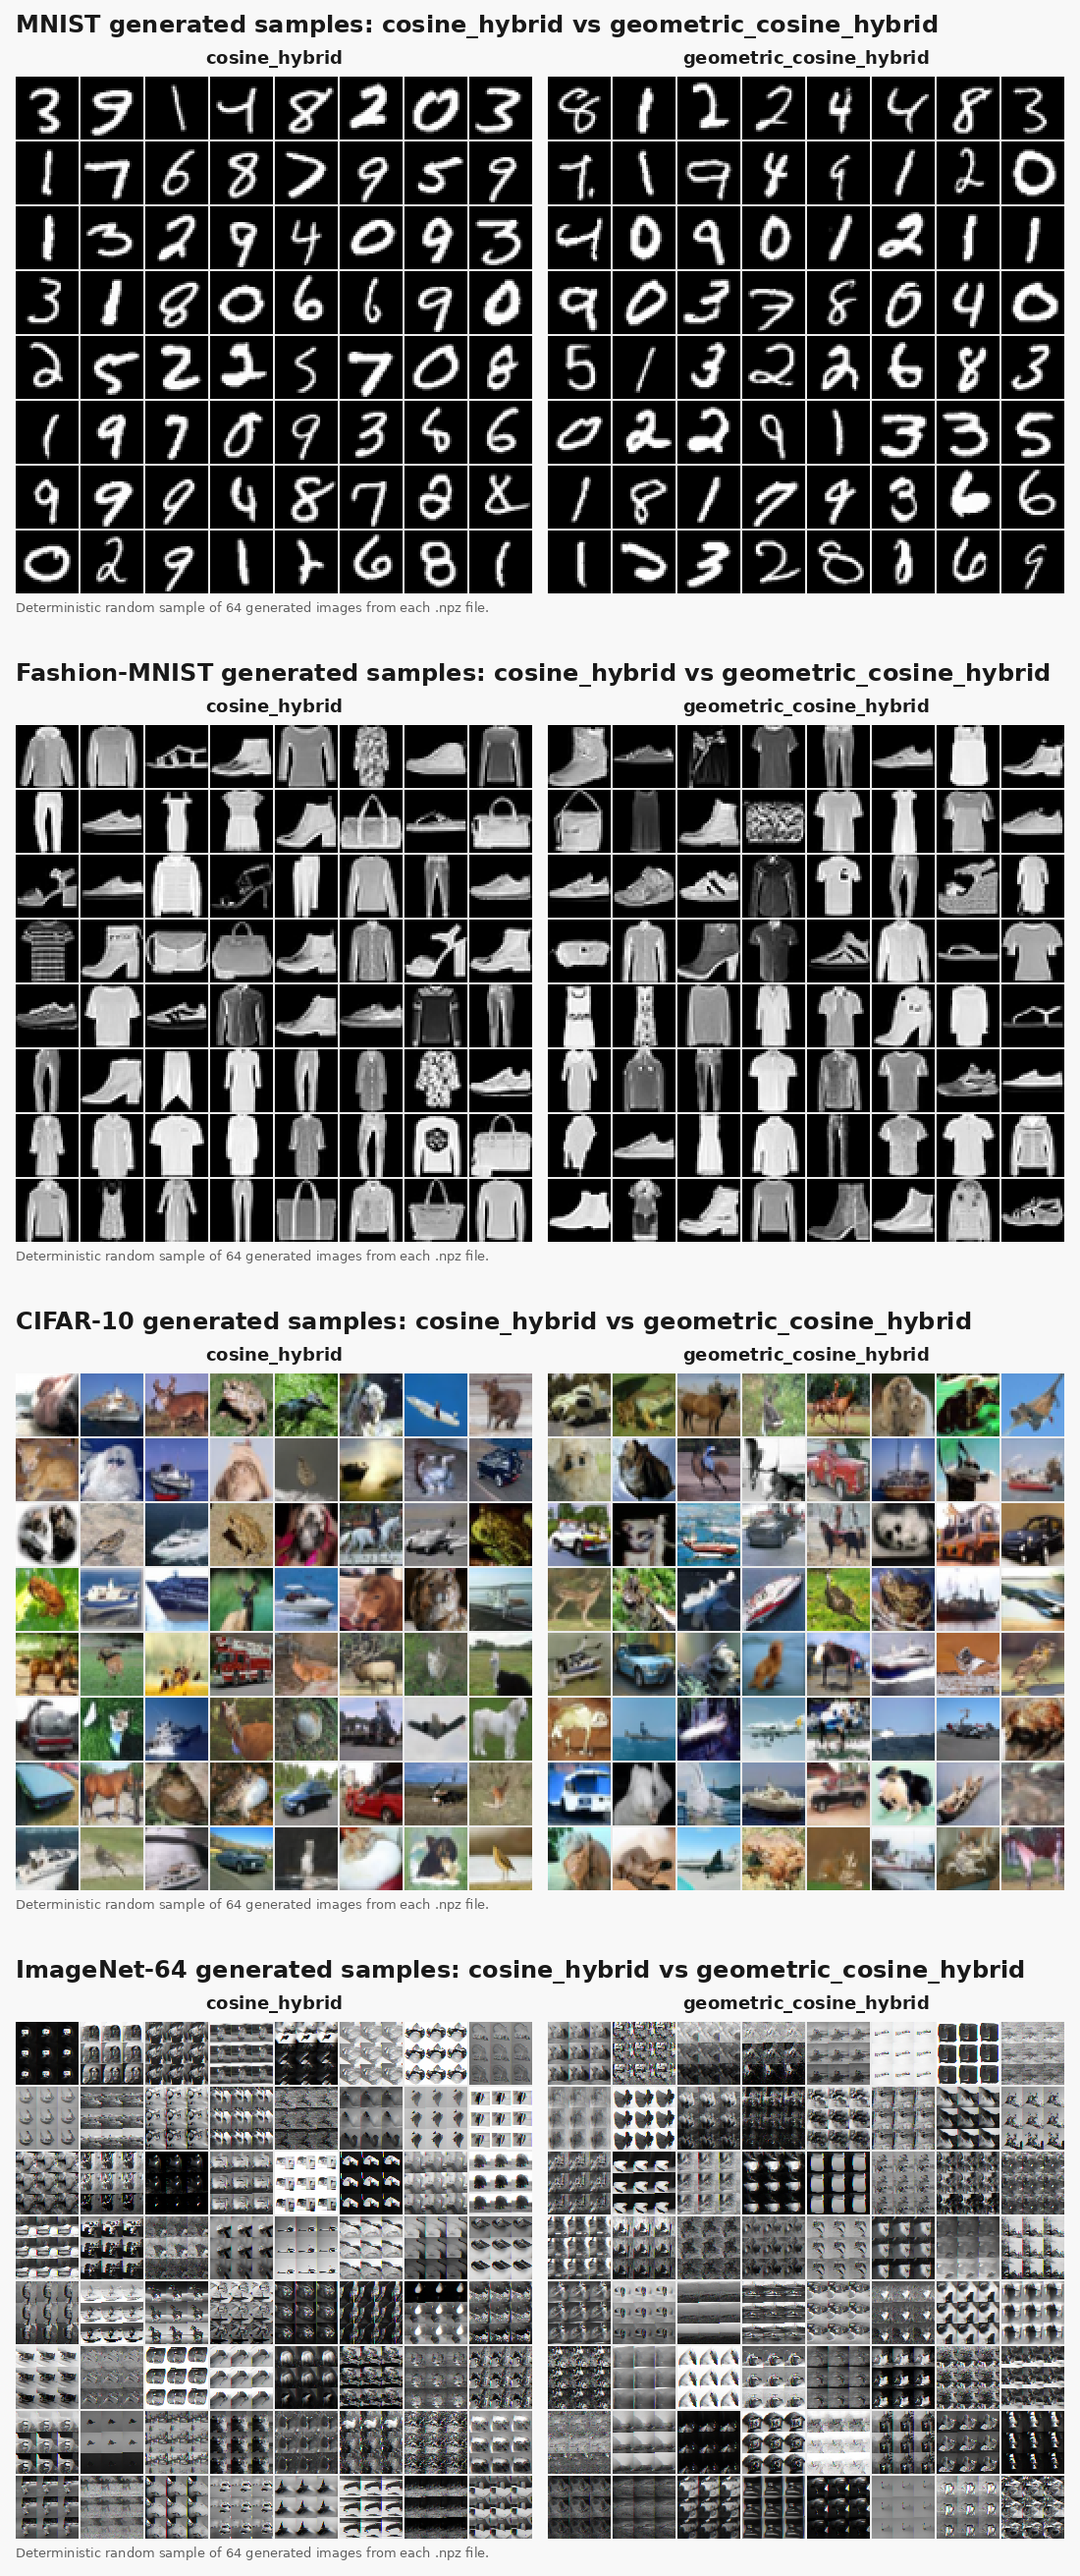
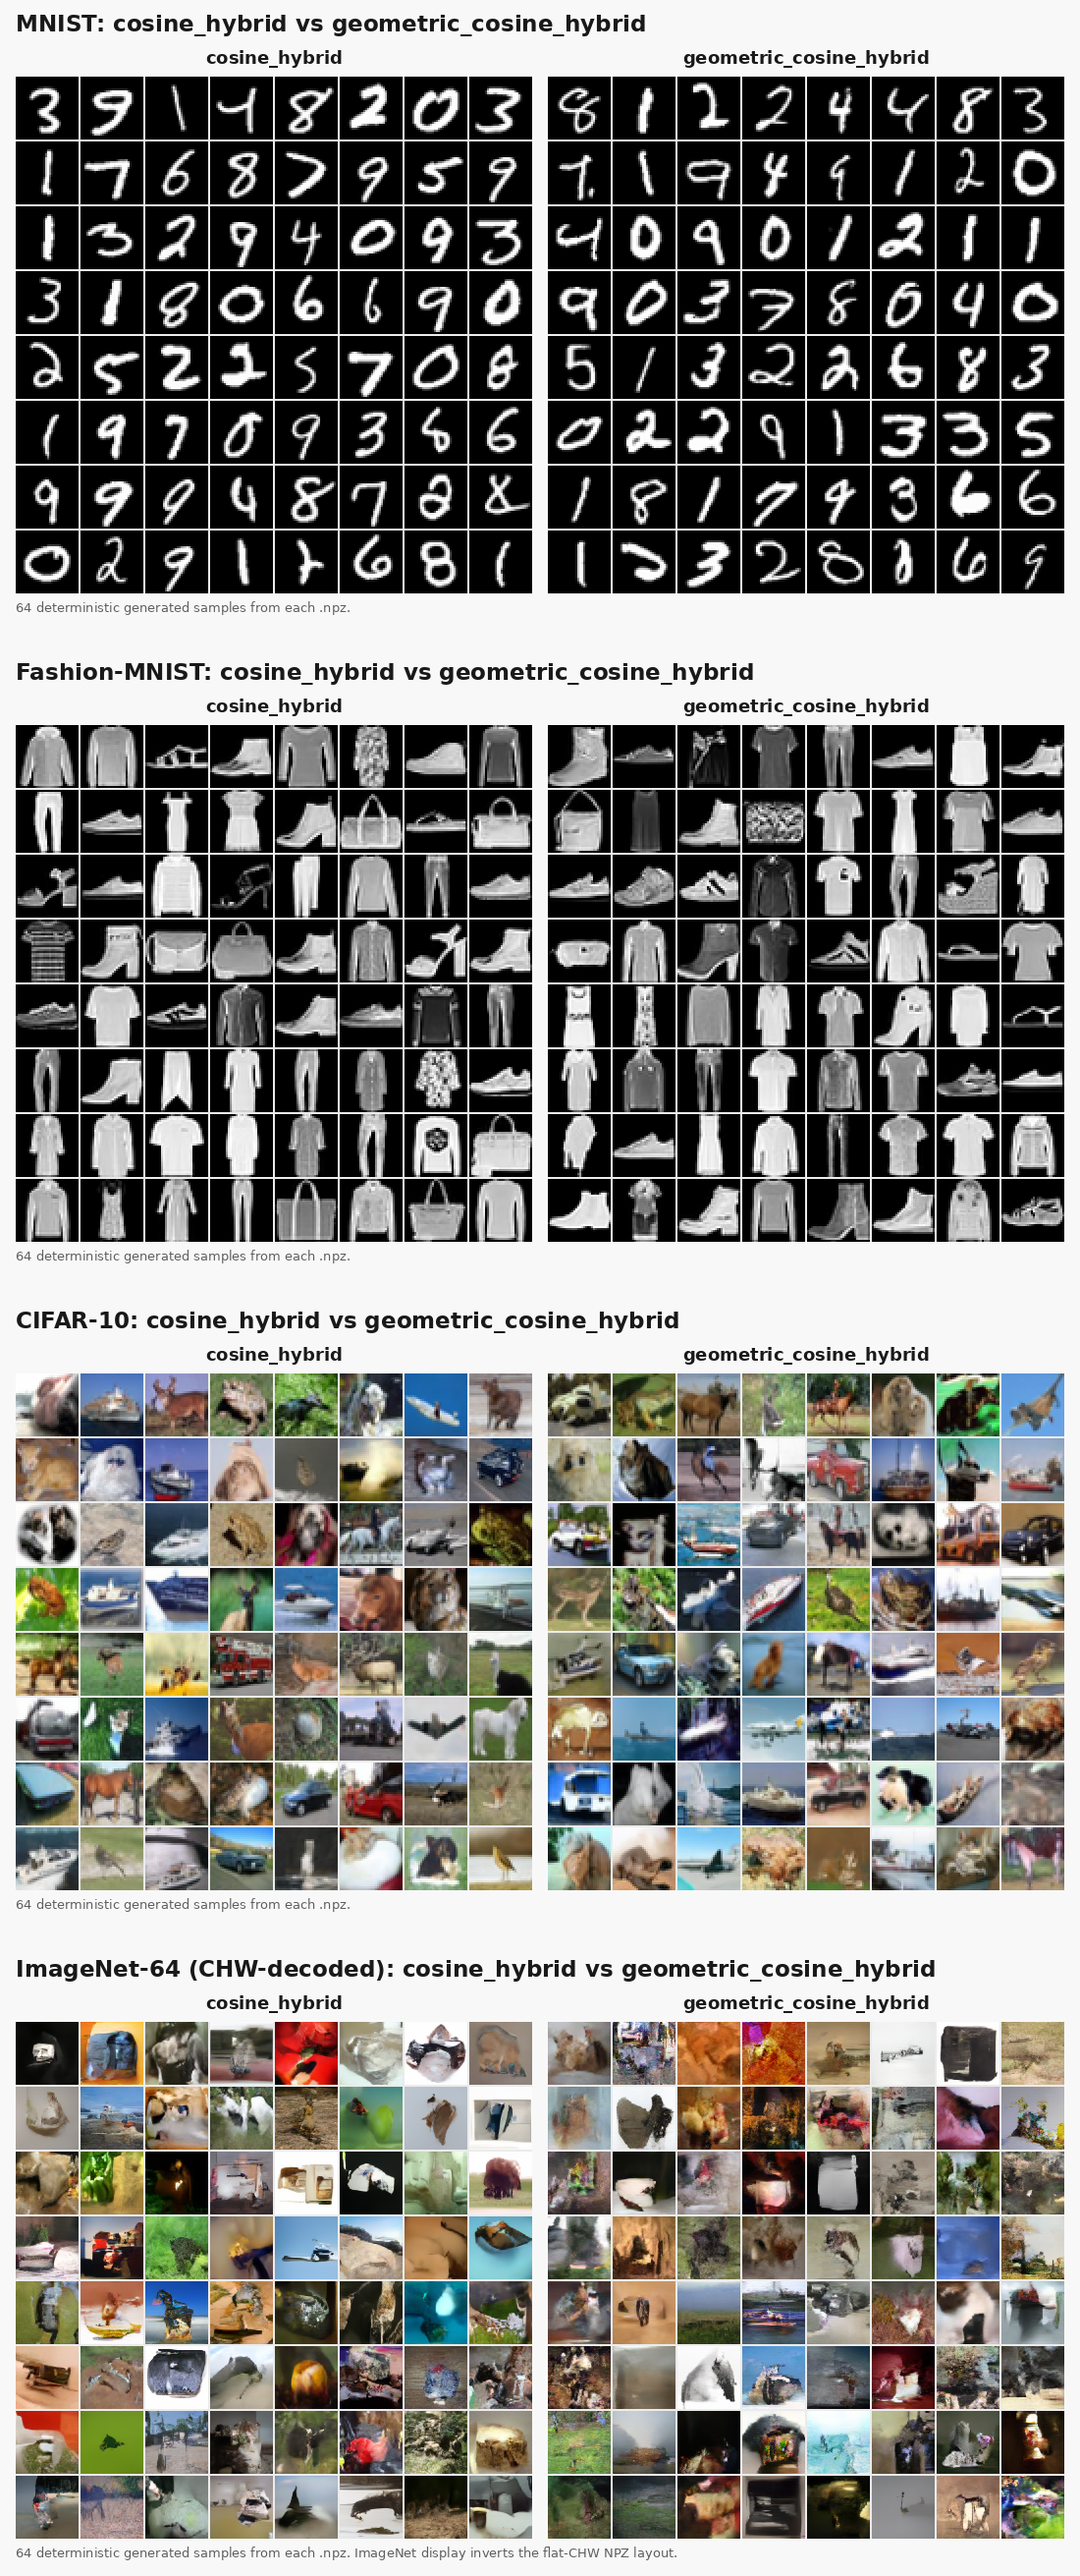
Fix ImageNet64 sample display layout

diff --git a/datasets/imagenet64.py b/datasets/imagenet64.py
@@ -182,9 +182,10 @@ def _npz_iter_images(imgs: Any, labels: Optional[Any], image_size: int = 64) -> 
             else:
                 raise ValueError(f"Unexpected 3D image shape: {x.shape}")
         elif x.ndim == 1:
-            # Flattened
+            # The official downsampled ImageNet npz files store flattened
+            # images as channel planes: R[H*W], G[H*W], B[H*W].
             if x.shape[0] == image_size * image_size * 3:
-                x = x.reshape(image_size, image_size, 3)
+                x = x.reshape(3, image_size, image_size).transpose(1, 2, 0)
             else:
                 raise ValueError(f"Unexpected 1D image length: {x.shape[0]}")
         else:
@@ -518,4 +519,3 @@ def main() -> None:
 
 if __name__ == "__main__":
     main()
-
